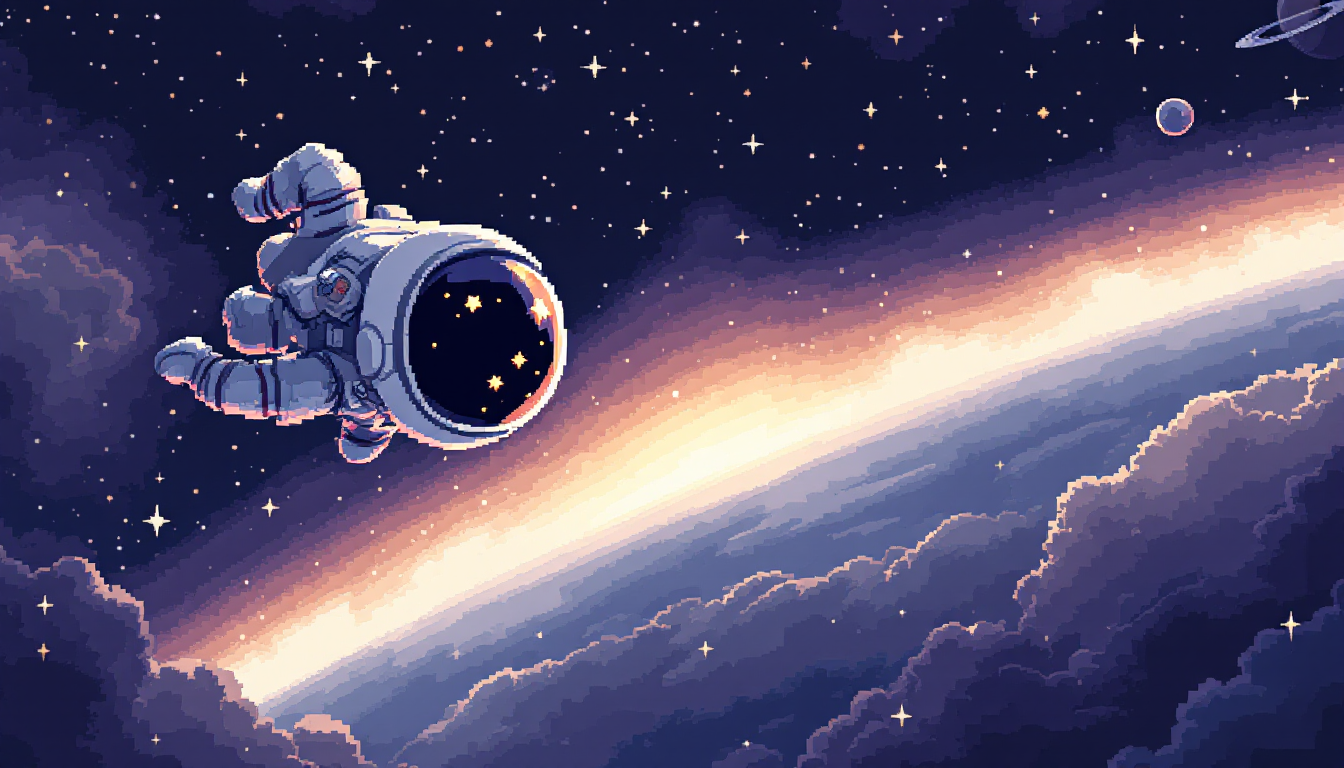
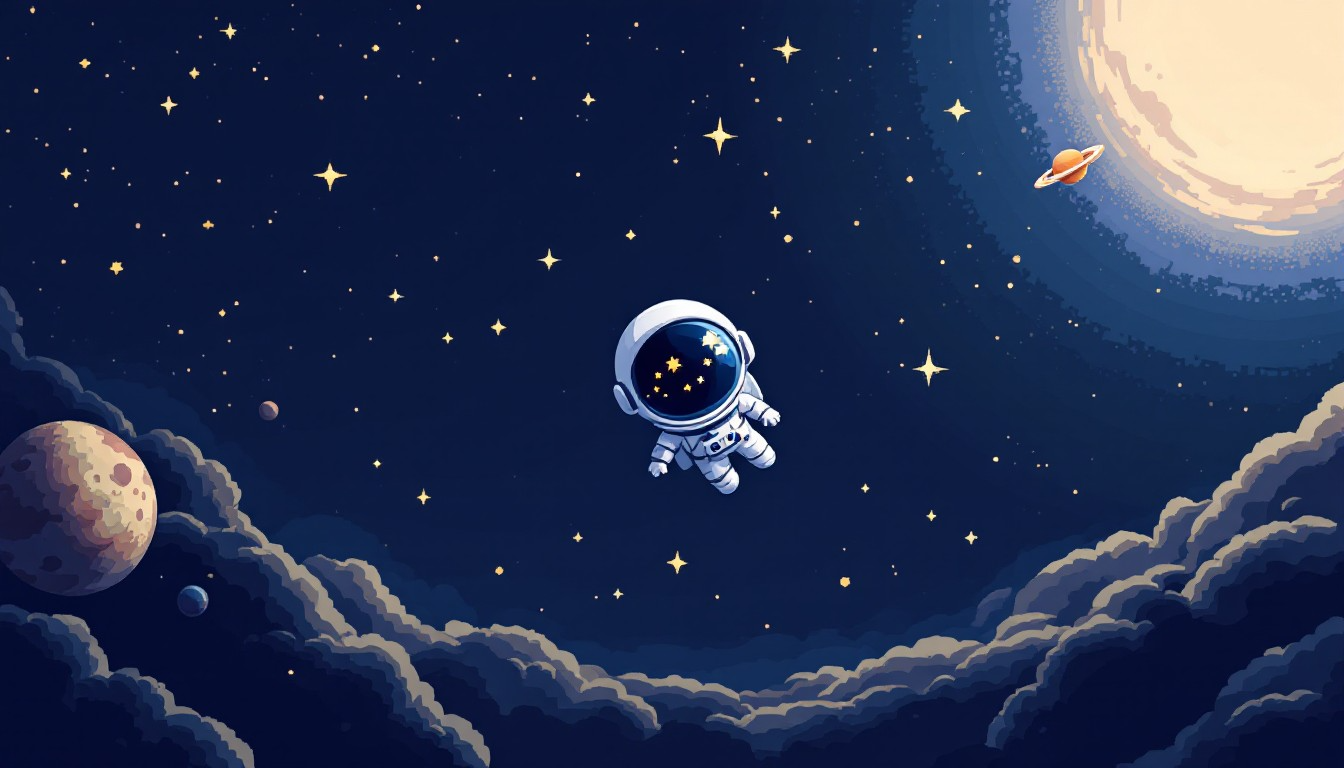
add new pic

diff --git a/README.md b/README.md
@@ -1,6 +1,6 @@
 # Geonote — `(cons geo note)`
 
-Raccolta (costantemente work in progress †) di note teoriche pensate come riferimento rapido e materiale di ripasso. Gli appunti spaziano dai fondamenti dei linguaggi di programmazione (sistemi di tipi, OOP, closure) alla teoria della computazione (riduzioni, classi di complessità, costo algoritmico) e qualche richiamo di matematica e statistica.
+Raccolta (sempre work in progress †) di note teoriche pensate come riferimento rapido e materiale di ripasso. Gli appunti spaziano dai fondamenti dei linguaggi di programmazione (sistemi di tipi, OOP, closure) alla teoria della computazione (riduzioni, classi di complessità, costo algoritmico) e qualche richiamo di matematica e statistica.
 
 Chiude la raccolta una sezione di problemi tipici da colloquio tecnico e competizioni, risolti con più approcci (ricorsione diretta, programmazione dinamica, forme chiuse).
 
